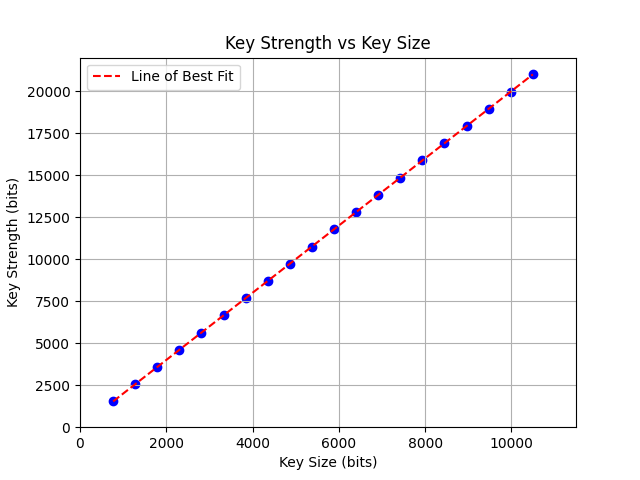
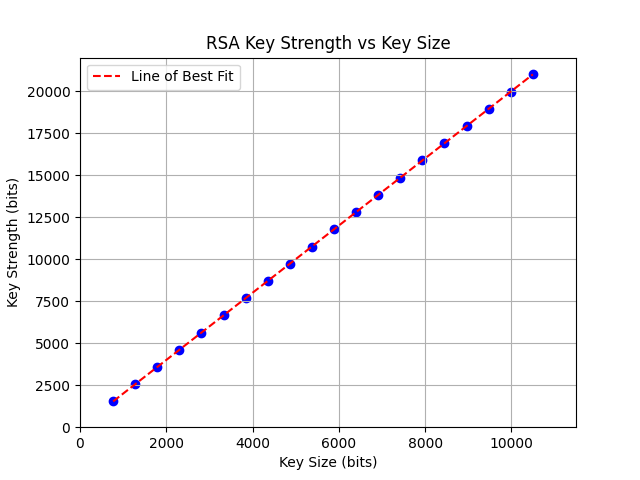
fixed some figs

Changed region(s): [[0.3125, 0.0625, 0.7188, 0.125]]

diff --git a/keysize_vs_decryption_time.py b/keysize_vs_decryption_time.py
@@ -26,8 +26,8 @@ def measure_decryption_time(private_key, ciphertext):
 
 def main():
     key_sizes = [768, 1280, 1792, 2304, 2816, 3328, 3840,
-             4352, 4864, 5376, 5888, 6400, 6912, 7424, 7936,
-             8448, 8960, 9472, 9984, 10496]
+                 4352, 4864, 5376, 5888, 6400, 6912, 7424, 7936,
+                 8448, 8960, 9472, 9984, 10496]
     decryption_times = []
 
     for key_size in key_sizes:
@@ -45,16 +45,19 @@ def main():
         decryption_time = measure_decryption_time(private_key, ciphertext)
         decryption_times.append(decryption_time)
 
-    # Exponential fit
-    p = np.polyfit(key_sizes, np.log(decryption_times), 1)
-    exponential_fit = np.exp(np.polyval(p, key_sizes))
+    # Exponential fit through origin (0,0)
+    poly_degree = 4  # You can adjust the degree of the polynomial fit
+    poly_coefficients = np.polyfit(key_sizes, decryption_times, poly_degree)
+    polynomial_fit = np.polyval(poly_coefficients, key_sizes)
 
     # Plotting
-    plt.scatter(key_sizes, decryption_times, c='blue', marker='o', label='Data Points')
-    plt.plot(key_sizes, exponential_fit, linestyle='--', color='red', label='Exponential Fit')
+    plt.scatter(key_sizes, decryption_times, c='blue', marker='o')
+    plt.plot(key_sizes, polynomial_fit, linestyle='--', color='red', label=f'Polynomial Fit (Degree {poly_degree})')
     plt.xlabel('Key Size (bits)')
     plt.ylabel('Decryption Time (seconds)')
     plt.title('RSA Key Size vs Decryption Time')
+    plt.xlim(0, max(key_sizes) + 0.1 * max(key_sizes))  # Set x-axis range starting from 0
+    plt.ylim(0, max(decryption_times) + 0.1 * max(decryption_times))  # Set y-axis range
     plt.legend()
     plt.legend(loc='upper left')
     plt.grid(True)
@@ -62,6 +65,7 @@ def main():
 
 if __name__ == "__main__":
     main()
+
 
 
 

diff --git a/scope_vs_performance.py b/scope_vs_performance.py
@@ -104,11 +104,9 @@ def analyze_results(csv_file):
     if num_total > 0:
         average_compute_time = total_compute_time / num_total
         average_scope = total_scope / num_total
-        accuracy_percentage = (num_correct / num_total) * 100
     else:
         average_compute_time = 0
         average_scope = 0
-        accuracy_percentage = 0
 
     average_compute_times.append(average_compute_time)
     average_scope_values.append(average_scope)
@@ -118,8 +116,8 @@ def plot(average_scope_values, average_compute_times):  # Switched the arguments
     plt.xlabel('Average Scope (I & J range)')
     plt.ylabel('Average Compute Time (seconds)')  # Switched the labels
     plt.title('Average Scope vs Average Compute Time')
-    plt.xlim(0, 200000)
-    plt.ylim(0, max(average_compute_times) + 1)  # Adjusted the limits
+    plt.xlim(0, 1000000)
+    plt.ylim(0, max(average_compute_times)+.1*max(average_compute_times))  # Adjusted the limits
     plt.grid(True)
 
     # Calculate the line of best fit
@@ -131,12 +129,11 @@ def plot(average_scope_values, average_compute_times):  # Switched the arguments
 
     # Plot the line of best fit
     plt.plot(x_values, fit_fn(x_values), 'r--', label='Line of Best Fit')
-
-    plt.legend()
+    plt.legend(loc='upper left')
     plt.show()
 
 if __name__ == '__main__':
-    num_repeats = 100
+    num_repeats = 1000
 
     for _ in range(num_repeats):
         e = 17
@@ -157,8 +154,8 @@ if __name__ == '__main__':
             iteration_args = []
 
             for _ in range(num_iterations):
-                I = randint(1, 100000)
-                J = randint(1, 100000)
+                I = randint(1, 500000)
+                J = randint(1, 500000)
 
                 r1 = min(I, J)
                 r2 = max(I, J)

diff --git a/keystrength_vs_keysize.py b/keystrength_vs_keysize.py
@@ -31,7 +31,7 @@ def plot_key_strengths(key_sizes, key_strengths):
     plt.scatter(key_sizes, key_strengths, c='blue', marker='o')
     plt.xlabel('Key Size (bits)')
     plt.ylabel('Key Strength (bits)')
-    plt.title('Key Strength vs Key Size')
+    plt.title('RSA Key Strength vs Key Size')
     plt.ylim(0, max(key_strengths) + 1000)
     plt.xlim(0, max(key_sizes) + 1000)
     plt.grid(True)
